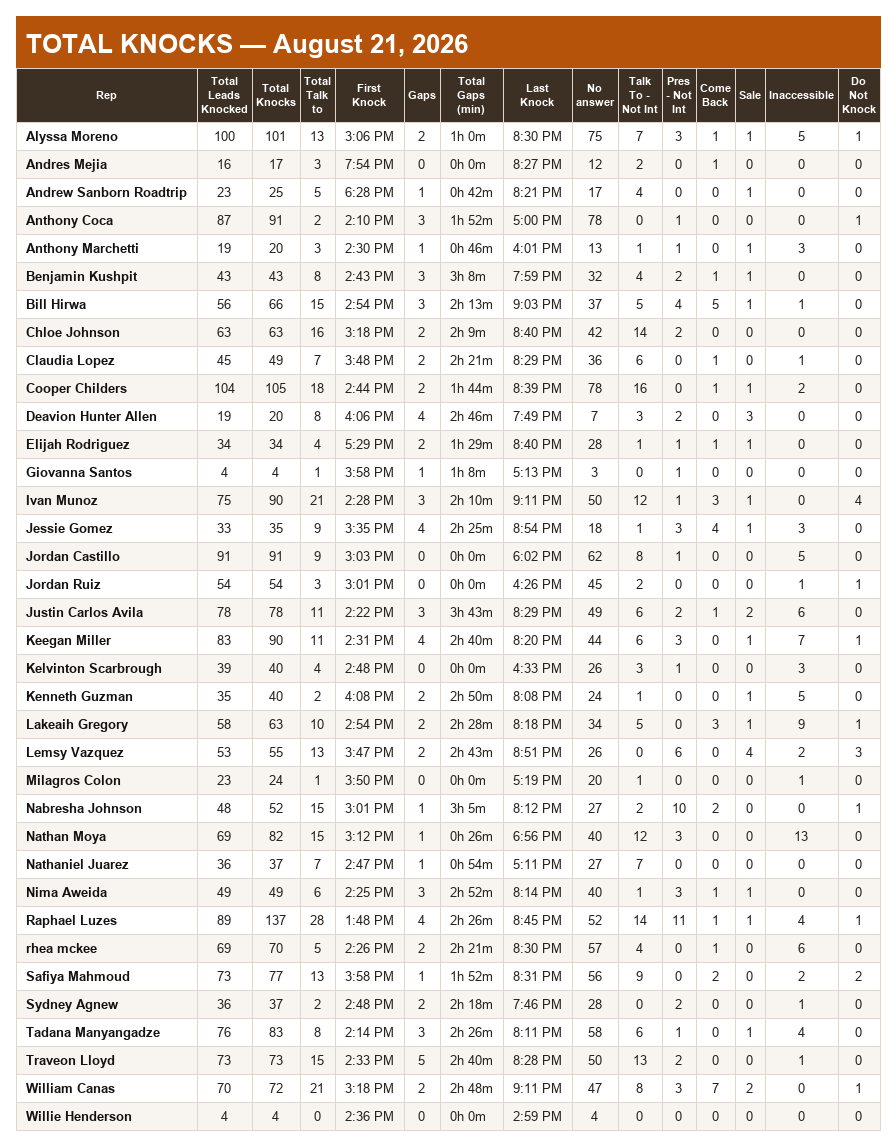
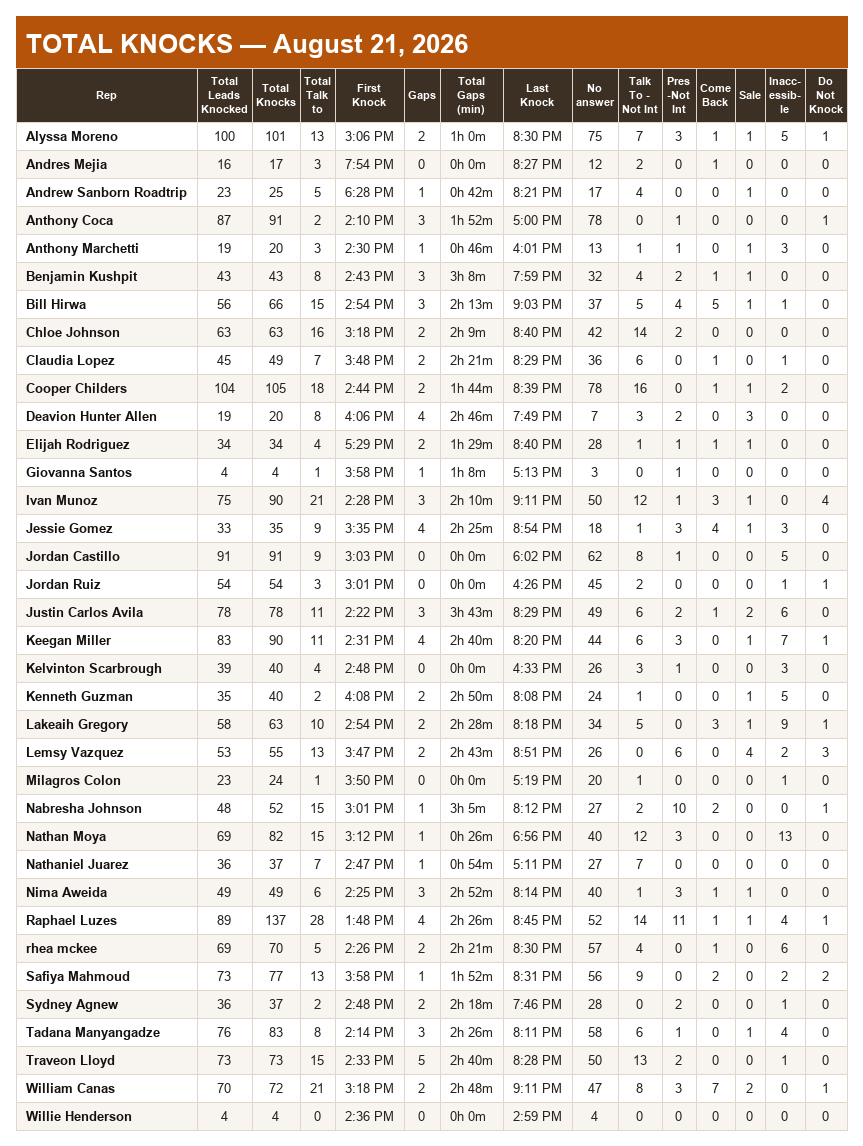
knocks board + order log: columns sized by data, headers wrap
preempting "cells too wide for the data" on both surfaces:
- knocks PNG: the data alone sets the box; a header word slightly wider
  widens a touch to stay whole ("Gaps", "Knocks"), a truly oversize one
  hyphenates ("Inacc-essible") instead of holding the column open
- order log xlsx: Cleaned + rep tab widths come from the data (dates
  count as m/d, not the underlying timestamp); header rows wrap onto
  two lines (34pt) with a longest-word floor so nothing clips

diff --git a/automations/uploaded/order_log.py b/automations/uploaded/order_log.py
@@ -1439,18 +1439,30 @@ def _thin_border() -> Border:
 
 
 def _autosize_columns(ws, df: pd.DataFrame) -> None:
+    """Column width comes from the DATA, not the header (Raf 2026-08-22:
+    "cells too wide for the data") — the header wraps onto extra lines
+    instead. A header word longer than the data still sets the floor so it
+    never clips mid-word."""
     for col_idx, header in enumerate(FRIENDLY_HEADERS, start=1):
         col_series = df[header]
         # Use a defensive str() conversion per-cell. pandas's .astype(str)
         # leaves Arrow-backed nulls as `None`/NaN floats on newer pandas
         # versions, and .map(len) then trips on TypeError: 'float' has no
         # len. A plain generator + str() per value is bulletproof.
-        max_len = max(
-            (len(header),)
-            + tuple(len(str(v)) for v in col_series if v is not None
+        data_len = max(
+            (4,)
+            + tuple(5 if hasattr(v, "to_pydatetime")
+                    or isinstance(v, (date, datetime)) else len(str(v))
+                    for v in col_series if v is not None
                     and not (isinstance(v, float) and pd.isna(v)))
         )
-        ws.column_dimensions[get_column_letter(col_idx)].width = _ol_width(max_len)
+        longest_word = max((len(w) for w in header.split()), default=0)
+        ws.column_dimensions[get_column_letter(col_idx)].width = (
+            _ol_width(max(data_len, longest_word)))
+    # Header cells wrap; give the row room for two lines.
+    for cell in ws[1]:
+        cell.alignment = _OL_CENTER_WRAP
+    ws.row_dimensions[1].height = 34
 
 
 def _owner_file_suffix(owner_name: str) -> str:
@@ -1537,6 +1549,8 @@ _OL_FONT_NAME = "Georgia"
 _OL_FONT_SIZE = 12
 _OL_WIDTH_FACTOR = 1.3
 _OL_CENTER = Alignment(horizontal="center", vertical="center", wrap_text=False)
+_OL_CENTER_WRAP = Alignment(horizontal="center", vertical="center",
+                            wrap_text=True)
 
 
 def _ol_font(color: str = "000000", italic: bool = False) -> Font:
@@ -1740,6 +1754,7 @@ def _append_rep_breakdown_tabs(wb, df: pd.DataFrame, owner: str = "") -> int:
 
         sh = wb.create_sheet(_unique_sheet_title(rep, used))   # full name; tab per rep
         banner_rows: set = set()
+        header_rows: set = set()
         r = 1
 
         # Week sections (Active), earliest first. A blank row between sections.
@@ -1747,7 +1762,7 @@ def _append_rep_breakdown_tabs(wb, df: pd.DataFrame, owner: str = "") -> int:
             _banner(sh, r, f"Week {_md(ws_)} to {_md(we_)}  •  Paid Friday {_md(paid)}",
                     week_fill, banner_font)
             banner_rows.add(r); r += 1
-            _header(sh, r); r += 1
+            _header(sh, r); header_rows.add(r); r += 1
             for rec in sorted(weeks[(ws_, we_, paid)], key=_week_key):
                 _write_rep_row(sh, r, [(h, rec[h]) for h in _REP_TAB_COLUMNS],
                                border, center_v, "57BB8A", "000000")
@@ -1772,7 +1787,7 @@ def _append_rep_breakdown_tabs(wb, df: pd.DataFrame, owner: str = "") -> int:
                 _banner(sh, r, _legend, PatternFill("solid", fgColor="FFF2CC"),
                         legend_font)
                 banner_rows.add(r); r += 1
-            _header(sh, r); r += 1
+            _header(sh, r); header_rows.add(r); r += 1
             for code, rec in sorted(pdc, key=lambda x: (x[0], _week_key(x[1]))):
                 bg = STATUS_COLORS.get(str(rec["Status"]).strip(), "FFD666")
                 _write_rep_row(sh, r, [(h, rec[h]) for h in _REP_TAB_COLUMNS],
@@ -1782,7 +1797,7 @@ def _append_rep_breakdown_tabs(wb, df: pd.DataFrame, owner: str = "") -> int:
                                      bg, border, active=False)
                 r += 1
 
-        _autosize_rep_tab(sh, banner_rows)
+        _autosize_rep_tab(sh, banner_rows, header_rows)
         added += 1
 
     return added
@@ -1842,17 +1857,32 @@ def _write_week_total(sh, r, recs, pay_grid, base_ncol, ncol, border, banner_row
     return r + 1
 
 
-def _autosize_rep_tab(ws, banner_rows: set) -> None:
+def _autosize_rep_tab(ws, banner_rows: set, header_rows: set = frozenset()) -> None:
+    """Widths come from the DATA rows (Raf 2026-08-22) — header rows wrap
+    onto two lines instead of stretching their columns. A header's longest
+    single word still floors the width so nothing clips mid-word."""
     widths: dict = {}
+    head_word: dict = {}
     for row in ws.iter_rows(min_row=1, max_row=ws.max_row, max_col=ws.max_column):
         for cell in row:
             if cell.row in banner_rows or cell.value in (None, ""):
                 continue
-            length = 10 if isinstance(cell.value, (date, datetime)) else len(str(cell.value))
             col = cell.column_letter
+            if cell.row in header_rows:
+                longest = max((len(w) for w in str(cell.value).split()),
+                              default=0)
+                head_word[col] = max(head_word.get(col, 0), longest)
+                continue
+            length = 5 if isinstance(cell.value, (date, datetime)) else len(str(cell.value))
             widths[col] = max(widths.get(col, 0), length)
-    for col, L in widths.items():
-        ws.column_dimensions[col].width = _ol_width(L)
+    for col in set(widths) | set(head_word):
+        ws.column_dimensions[col].width = _ol_width(
+            max(widths.get(col, 0), head_word.get(col, 0), 4))
+    for hr in header_rows:
+        for cell in ws[hr]:
+            if cell.value not in (None, ""):
+                cell.alignment = _OL_CENTER_WRAP
+        ws.row_dimensions[hr].height = 34
 
 
 # Set by csv_to_xlsx when the per-rep breakdown tabs failed to build. The .xlsx

diff --git a/automations/total_knocks/render.py b/automations/total_knocks/render.py
@@ -159,14 +159,36 @@ def _text_w(draw: ImageDraw.ImageDraw, text: str, font) -> int:
     return int(draw.textlength(text or "", font=font))
 
 
+def _split_word(probe, word: str, fit_w: int, font) -> list[str]:
+    """Hyphenate a single too-wide word into chunks that fit fit_w — the
+    only way a long word ("Inaccessible") stops dictating its column width."""
+    out: list[str] = []
+    cur = ""
+    for ch in word:
+        if cur and _text_w(probe, cur + ch + "-", font) > fit_w:
+            out.append(cur + "-")
+            cur = ch
+        else:
+            cur += ch
+    if cur:
+        out.append(cur)
+    return out or [word]
+
+
 def _wrap_header(probe, text: str, fit_w: int, font) -> list[str]:
-    """Wrap a header into lines no wider than fit_w (words never split).
-    Returns at least one line; a single word wider than fit_w stays whole."""
-    words = text.split()
+    """Wrap a header into lines no wider than fit_w; a word wider than fit_w
+    hyphenates rather than widening the column."""
+    words: list[str] = []
+    for w in text.split():
+        if _text_w(probe, w, font) > fit_w:
+            words.extend(_split_word(probe, w, fit_w, font))
+        else:
+            words.append(w)
     lines: list[str] = []
     cur = ""
     for w in words:
-        cand = f"{cur} {w}".strip()
+        joined = w if (cur.endswith("-") or not cur) else f" {w}"
+        cand = cur + joined
         if cur and _text_w(probe, cand, font) > fit_w:
             lines.append(cur)
             cur = w
@@ -210,11 +232,15 @@ def _draw(header: list[str], rows: list[list[str]], title: str, theme: dict,
             w_cells = max(w_cells,
                           _text_w(probe, r[ci] if ci < len(r) else "", cell_font))
         if wrap_headers:
-            # Floor: widest cell, but never narrower than the header's longest
-            # single word (words don't split).
-            longest_word = max((_text_w(probe, wd, head_font)
-                                for wd in header[ci].split()), default=0)
-            fit = max(w_cells, longest_word, MIN_COL_W)
+            # Floor: widest cell — the DATA sets the box. A header word only a
+            # little wider than the data widens the box to stay whole ("Gaps",
+            # "Knocks"); a truly oversize word ("Inaccessible") hyphenates
+            # instead of holding the column open (Megan 2026-08-22).
+            fit = max(w_cells, MIN_COL_W)
+            for wd in header[ci].split():
+                ww = _text_w(probe, wd, head_font)
+                if fit < ww <= int(fit * 1.8) + 8:
+                    fit = ww
             lines = _wrap_header(probe, header[ci], fit, head_font)
             while len(lines) > 3:      # cap the stack — widen a touch instead
                 fit += 6
